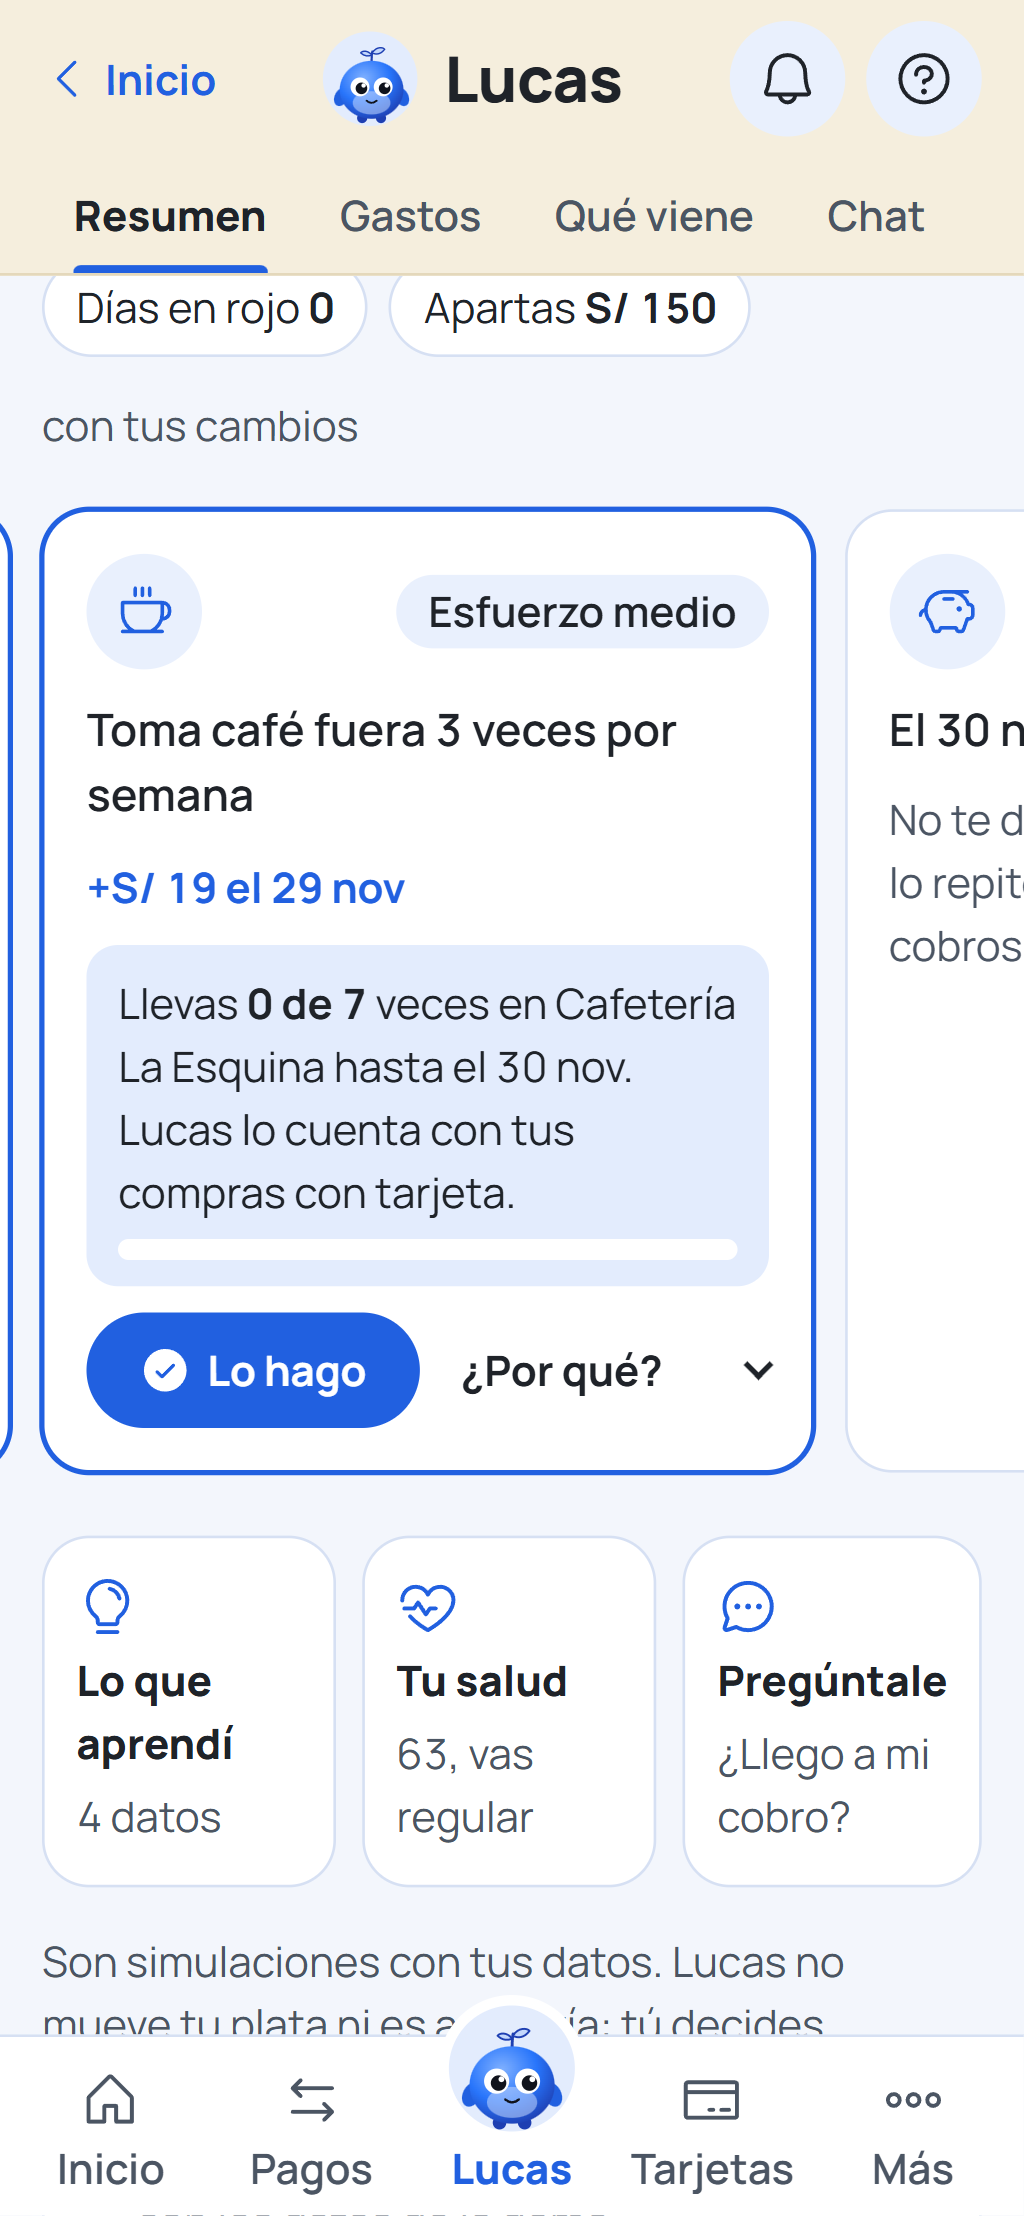
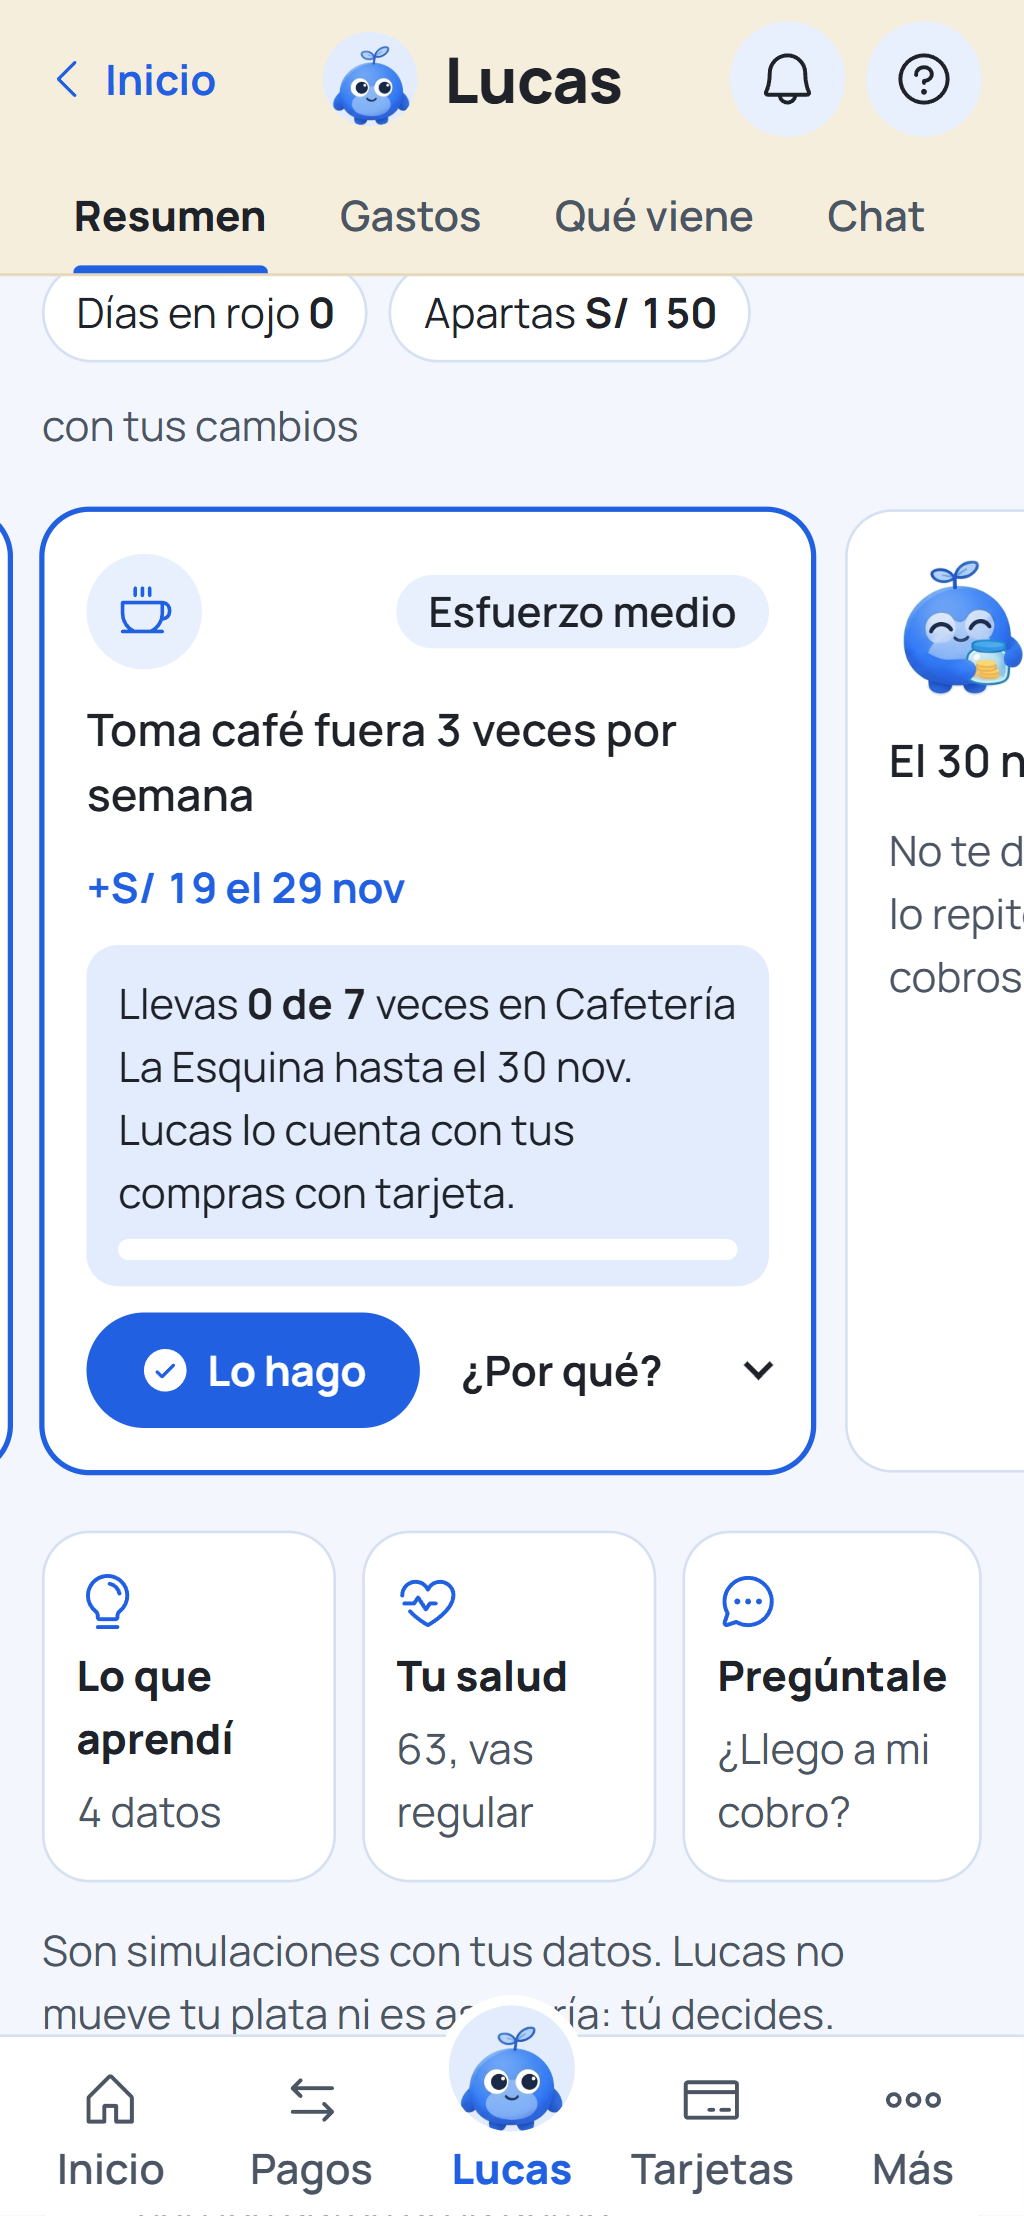
fix(front): rediseño móvil junto con las poses de Lucas y el guion de demo
- Chat: Lucas saluda en la bienvenida y cada respuesta lleva su pose
- Resumen en 1.5 pantallas con el aviso de pose: «Explícamelo fácil» más cerca
  del aviso y menos espacio entre las filas de impacto
- Capturas del guion de demo regeneradas con el diseño nuevo
- Registro de Marcela con los números tras el rebase

diff --git a/app/src/estilos/piezas.css b/app/src/estilos/piezas.css
@@ -348,7 +348,7 @@ details[open] summary::after {
 .facil {
   display: grid;
   gap: 10px;
-  margin-top: 8px;
+  margin-top: 4px;
 }
 
 .facil-boton {

diff --git a/app/src/estilos/lucas.css b/app/src/estilos/lucas.css
@@ -407,7 +407,7 @@
   display: flex;
   align-items: center;
   flex-wrap: wrap;
-  gap: 8px;
+  gap: 6px 8px;
 }
 
 .impacto span {

diff --git a/.claude/equipo/marcela/registro.md b/.claude/equipo/marcela/registro.md
@@ -38,7 +38,7 @@ Todo lo que subo lleva la firma «Nakusuo/Marcela».
 | 2026-11-14 | Guion de demo al día con develop | `feature/docs-demo-guion` | Rebase sobre los PR #13 (consentimiento y persona), #15 (capa `src/api`, motor en `src/motor`) y #17 (regla de avisos: en la banca la tarjeta dice «Lucas lo ve venir» porque el rojo está a 14 días; la prueba saca el título de `candidatos`). La preparación del guion acepta el permiso y levanta la API; el plan B dice que sin API aparece el aviso de datos y las cifras no cambian. 122/122 Playwright y 93/93 de funciones (también con el chat del PR #16; el plan B del chat dice que solo llama al agente con `VITE_CHAT_AGENTE=si` y que, si falla, responde con plantillas). juez-cumplimiento CUMPLE (3.ª revisión). PR #12 unido a `develop`. Nakusuo/Marcela |
 | 2026-11-14 | Capturas del guion al día | `feature/docs-demo-capturas` | 12 capturas de `demo/capturas/` regeneradas con el front del PR #19 (seguimiento del tip en cada tarjeta). Prueba del guion 4/4. Nakusuo/Marcela |
 | 2026-11-14 | MC-05 Simulador y MC-11 Metas | `feature/front-simulador-metas` (worktree `../lucas-simulador`) | Qué viene: «¿Y si viene un gasto o un ingreso?» hasta hoy+30; la banda, el peor caso y los días en rojo cambian mientras se escribe (S/ 450 el 5 dic: rojo 2 → 12) y propone «hasta S/ 40 ese día no te suma días en rojo»; nada se guarda hasta «Agregar a mi pronóstico»; avisa si el gasto ya es un pago conocido. Metas (desde «Llévalo a una meta» y el bloque «Tus metas»): monto y fecha (por defecto 31 dic), avance, creada → en curso → cumplida, aporte al mes al cobrar tomado del apartado del motor (independiente: S/ 40, con los 3 tips S/ 150 y llega el 30 dic; formal: S/ 430), confianza alta/media/baja. Todo con el motor local: la API no lleva fecha por movimiento y el signo de `expense` sigue pendiente (PR #10); el único punto de cambio es `vistaCon`. Rebase sobre `develop` con los PR #15 (personas, consentimiento, capa `src/api`), #17 (avisos y evidencia), #16 (chat), #19 (ajustes de los jueces) y #12 (guion de demo): lo planificado y las metas se olvidan al cambiar de persona o retirar el permiso, como los tips; `vistaCon` deja `pagosExtra` (demo de avisos) en tercer lugar y lo planificado en cuarto, y la demo de avisos también cuenta lo planificado. 136 pruebas de funciones y 144 de Playwright (con la del guion de demo) (1366×768 y 390 px, claro y oscuro) en verde. Jueces: técnico APRUEBA (3.ª vuelta y revisión de la integración), producto APRUEBA (74). Push y PR #21 a `develop` (revisa Dixon). Nakusuo/Marcela |
-| 2026-11-14 | Rediseño móvil terminado | `feature/front-rediseno-movil-2` | Banca: tarjeta con volumen (sombra en capas y tarjeta detrás, sin degradado), aviso de Lucas antes de los accesos, accesos en bento (Transferir grande) y 3 movimientos con «Ver todo»; sin carrusel de pagos programados (siguen en Qué viene). Qué viene: línea punteada con banda y borde de 3:1, etiquetas directas «Hoy», «Cobro» y «Peor caso −S/ 60», «Explícamelo fácil» dentro de la hoja. Chat: bienvenida en panel azul, bloque visible «Calculado con tus datos», sugerencias en fila que quitan lo ya preguntado, «tú decides» fijo. Ingreso oscuro: sin halo con degradado, tarjeta quieta con «reducir movimiento», hover de botón legible. Mascota y favicon sin degradado ni ámbar. Pruebas nuevas: contraste AA en claro y oscuro (también el gráfico), ≤ 1.5 pantallas de celular, límite de marca BBVA y sin degradados. Jueces: técnico CAMBIOS solo por Gitflow (coautor y rebase, ya resuelto), producto APRUEBA ~63/100, cumplimiento CUMPLE CON RIESGOS (4 riesgos, arreglados). Rebase sobre `develop` con el PR #13 (consentimiento, persona, «explícamelo fácil»): «Explícamelo fácil» de Qué viene pasa dentro de la hoja y reemplaza la nota del rango (decía lo mismo); espaciado de Lucas un poco más junto para que Resumen y Qué viene sigan en ≤ 1.5 pantallas. Luego otros rebases con el PR #15 (capa `src/api`, sin choques) y el PR #17 (avisos y evidencia: la banca junta la campana con contador y «Lucas lo ve venir» con el diseño nuevo). y el PR #19 (chat listo para el agente y ajustes de los jueces): el Chat junta el diseño nuevo con el agente (pensando, fuentes, aviso y ✓ verificado), la banda de Qué viene se queda con la solución de develop (banda más clara y halo bajo la línea) y, para que Resumen siga en ≤ 1.5 pantallas, «Cómo evitarlo» pasa a enlace dentro del aviso (como «Ver tips» en Qué viene) y la salud dice «56 hoy, 63 con tips». 109 pruebas de funciones y 127 de Playwright en verde (1 omitida a propósito), en claro y oscuro, 1366×768 y celular. Sin push. Nakusuo/Marcela |
+| 2026-11-14 | Rediseño móvil terminado | `feature/front-rediseno-movil-2` | Banca: tarjeta con volumen (sombra en capas y tarjeta detrás, sin degradado), aviso de Lucas antes de los accesos, accesos en bento (Transferir grande) y 3 movimientos con «Ver todo»; sin carrusel de pagos programados (siguen en Qué viene). Qué viene: línea punteada con banda y borde de 3:1, etiquetas directas «Hoy», «Cobro» y «Peor caso −S/ 60», «Explícamelo fácil» dentro de la hoja. Chat: bienvenida en panel azul, bloque visible «Calculado con tus datos», sugerencias en fila que quitan lo ya preguntado, «tú decides» fijo. Ingreso oscuro: sin halo con degradado, tarjeta quieta con «reducir movimiento», hover de botón legible. Mascota y favicon sin degradado ni ámbar. Pruebas nuevas: contraste AA en claro y oscuro (también el gráfico), ≤ 1.5 pantallas de celular, límite de marca BBVA y sin degradados. Jueces: técnico CAMBIOS solo por Gitflow (coautor y rebase, ya resuelto), producto APRUEBA ~63/100, cumplimiento CUMPLE CON RIESGOS (4 riesgos, arreglados). Rebase sobre `develop` con el PR #13 (consentimiento, persona, «explícamelo fácil»): «Explícamelo fácil» de Qué viene pasa dentro de la hoja y reemplaza la nota del rango (decía lo mismo); espaciado de Lucas un poco más junto para que Resumen y Qué viene sigan en ≤ 1.5 pantallas. Luego otros rebases con el PR #15 (capa `src/api`, sin choques) y el PR #17 (avisos y evidencia: la banca junta la campana con contador y «Lucas lo ve venir» con el diseño nuevo). y el PR #19 (chat listo para el agente y ajustes de los jueces): el Chat junta el diseño nuevo con el agente (pensando, fuentes, aviso y ✓ verificado), la banda de Qué viene se queda con la solución de develop (banda más clara y halo bajo la línea) y, para que Resumen siga en ≤ 1.5 pantallas, «Cómo evitarlo» pasa a enlace dentro del aviso (como «Ver tips» en Qué viene) y la salud dice «56 hoy, 63 con tips». Último rebase con los PR #12, #18 y #20 (guion de demo y Lucas con 8 poses): el chat usa las poses (saludo en la bienvenida, la de cada respuesta), la mascota SVG se fue con el cambio a poses y las capturas de `demo/capturas/` se regeneraron con el diseño nuevo; el chip «Explícamelo fácil» y las píldoras de impacto quedaron un poco más juntos para que Resumen siga en ≤ 1.5 pantallas. 109 pruebas de funciones y 131 de Playwright en verde (1 omitida a propósito), en claro y oscuro, 1366×768 y celular. Sin push. Nakusuo/Marcela |
 
 ## Lo que acordamos
 
